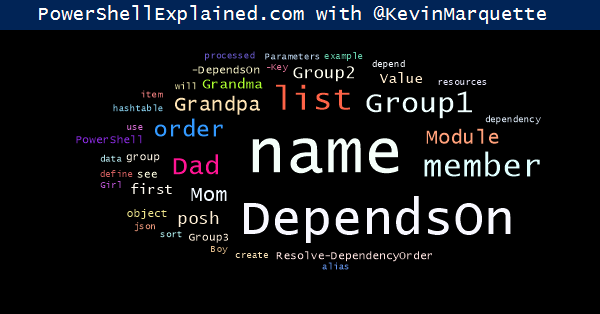
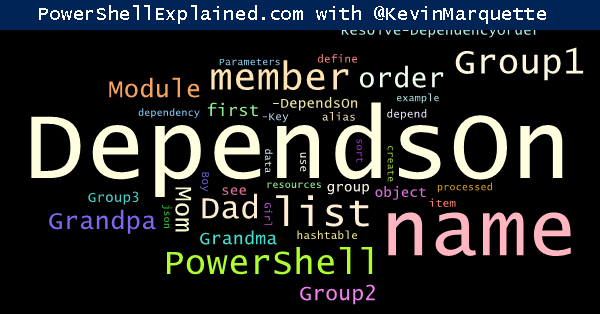
create word cloud for index

Changed region(s): [[0.03, 0.1433, 0.99, 0.9745], [0.06, 0.0287, 0.9, 0.1146]]

diff --git a/index.md b/index.md
@@ -2,6 +2,7 @@
 layout: page
 title: PowerShell Explained
 subtitle: With Kevin Marquette
+share-img: "/img/share-img/index.png"
 ---
 
 # Popular reference pages
